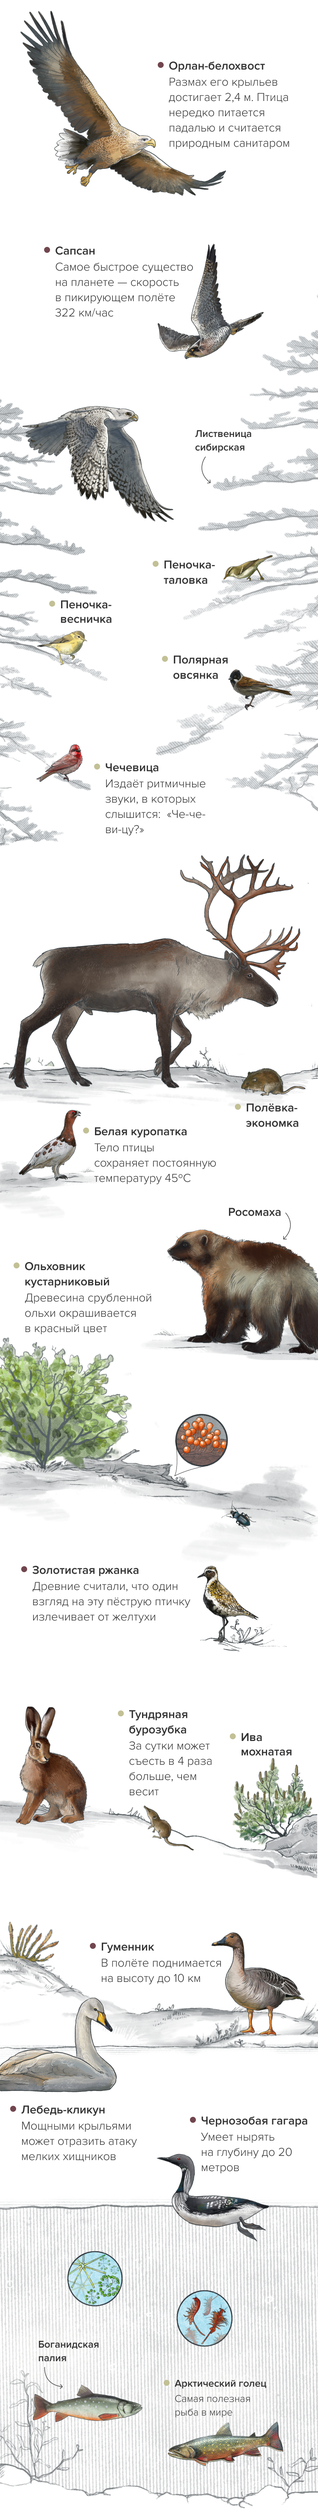
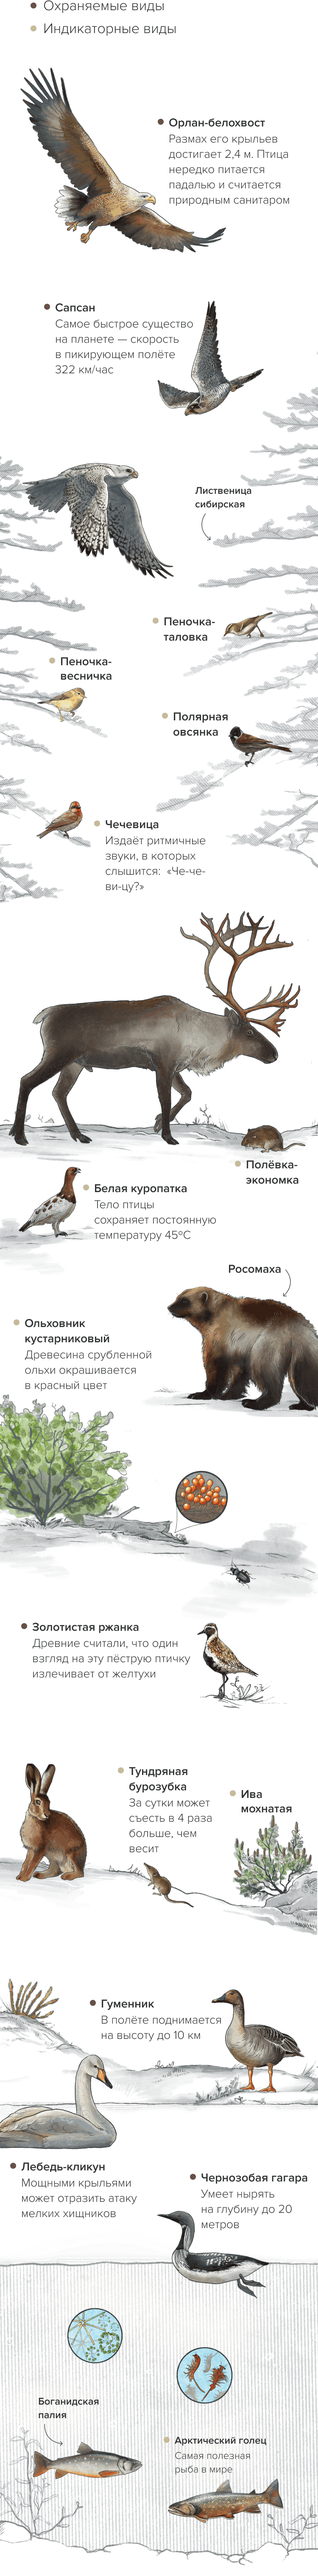
3pagw

Changed region(s): [[0.0, 0.0, 1.0, 0.997], [0.9813, 0.405, 1.0, 0.4673], [0.4907, 0.0, 0.5213, 0.0312]]

diff --git a/src/pages/NorilskDivisionPage.vue b/src/pages/NorilskDivisionPage.vue
@@ -157,7 +157,7 @@
                                 сократилась до&nbsp;опасного уровня. Им&nbsp;присваивают статус охраняемых и&nbsp;заносят
                                 в&nbsp;Красные книги&nbsp;&mdash; общероссийскую или региональные. Охранный статус запрещает
                                 охоту на&nbsp;животных, а&nbsp;в&nbsp;местах обитания краснокнижных растений и&nbsp;грибов
-                                ограничено строительство и&nbsp;другая хозяйственная деятельность.
+                                ограничены строительство и&nbsp;другая хозяйственная деятельность.
                             </BaseTooltip> животных и&nbsp;растений,
                             а&nbsp;также
                             несколько участков с&nbsp;уникальными экосистемами.
@@ -212,7 +212,7 @@
                     <BaseDropdownInfo class="zooplankton" :title="'Зоопланктон'"
                         :text="'Чтобы оценить состояние водоёмов, исследователи отобрали виды зоопланктона, сигнализирующие о&nbsp;качестве воды. Например, планктонный рачок Limnocalanus macrurus любит чистую воду, а&nbsp;если начинает доминировать планктонная коловратка Brachionus sericus&nbsp;&mdash; вода загрязнена'" />
                     <BaseDropdownInfo v-if="!isModile" class="char" :title="'Арктический голец (боганидская палия)'"
-                        :text="'Считается самой полезной рыбой в&nbsp;мире: кусочек рыбы в&nbsp;30&nbsp;г. покрывает суточную потребность человека в&nbsp;полезных жирных кислотах. Встречается также в&nbsp;водоёмах Кольского дивизиона'" />
+                        :text="'Считается самой полезной рыбой в&nbsp;мире: кусочек рыбы в&nbsp;30&nbsp;г покрывает суточную потребность человека в&nbsp;полезных жирных кислотах. Встречается также в&nbsp;водоёмах Кольского дивизиона'" />
 
                     <BaseDropdownInfo v-if="isModile" class="merlin" :title="'Кречет'" :color="'#71464E'"
                         :text="'Самая крупная птица из&nbsp;отряда соколиных. За&nbsp;последние 20&nbsp;лет её&nbsp;популяция в&nbsp;России сократилась втрое. &laquo;Норникель&raquo; вложил 50&nbsp;млн рублей в&nbsp;поддержку и&nbsp;сохранение вида в&nbsp;2022&ndash;2023&nbsp;гг'" />
@@ -1032,11 +1032,12 @@ export default {
         }
 
         @media (max-width: 768px) {
-            height: 792rem;
+            height: 810rem;
             background-image: url(../../public/img/collage-mobile.png);
-            // @supports (background-image: url(../../public/img/collage-mobile.webp)) {
-            // background-image: url(../../public/img/collage-mobile.webp);
-            // } 
+
+            @supports (background-image: url(../../public/img/collage-mobile.webp)) {
+                background-image: url(../../public/img/collage-mobile.webp);
+            }
         }
 
         .dropdown-info__wrap {
@@ -1070,8 +1071,8 @@ export default {
             right: 18rem;
 
             @media (max-width: 768px) {
-                top: 433rem;
-                right: 30rem;
+                top: 453rem;
+                right: 31rem;
             }
         }
 
@@ -1109,26 +1110,57 @@ export default {
 
         .merlin {
             position: absolute;
-            top: 115rem;
+            display: none;
+            top: 135rem;
             left: 12rem;
+
+            @media (max-width: 768px) {
+                display: block;
+            }
         }
 
         .deer {
+            display: none;
             position: absolute;
-            top: 278rem;
+            top: 301rem;
             left: 5rem;
+
+            @media (max-width: 768px) {
+                display: block;
+
+                .dropdown-info__title {
+                    max-width: unset;
+                }
+            }
         }
 
         .lycosus-moss {
             position: absolute;
             bottom: 193rem;
             left: 2rem;
+
+            @media (max-width: 768px) {
+                display: block;
+
+                .dropdown-info__title {
+                    max-width: unset;
+                }
+            }
         }
 
         .hare {
+            display: none;
             position: absolute;
             bottom: 260rem;
             left: 7rem;
+
+            @media (max-width: 768px) {
+                display: block;
+
+                .dropdown-info__title {
+                    max-width: unset;
+                }
+            }
         }
     }
 

diff --git a/src/pages/TransbaikalDivisionPage.vue b/src/pages/TransbaikalDivisionPage.vue
@@ -19,7 +19,7 @@
                 </BaseTextBlock>
 
                 <BigMap :circales="circales" :img="'img/transbaikal-big-map.jpg'" class="mb-100"
-                    :imgMobile="'img/transbaikal-big-map-mobile.jpg'">
+                    :imgMobile="'img/transbaikal-big-map-mobile.png'">
                     <div class="circales">
                         <div class="circale-block">
                             <svg class="circale-block__img" xmlns="http://www.w3.org/2000/svg" width="14" height="14"
